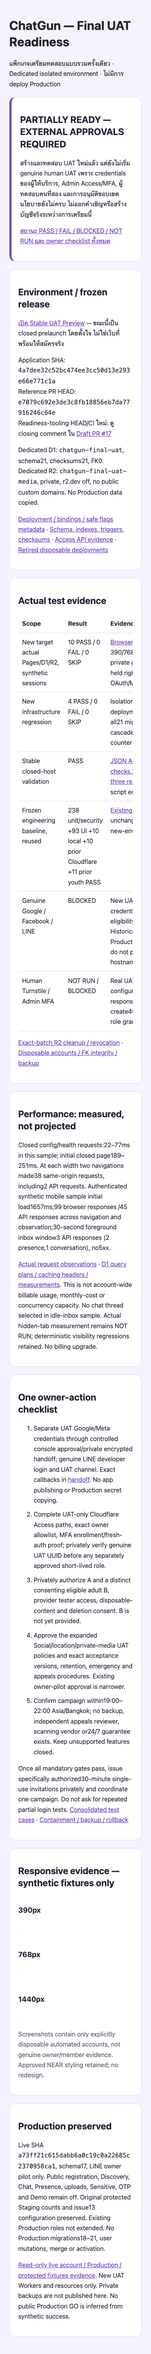
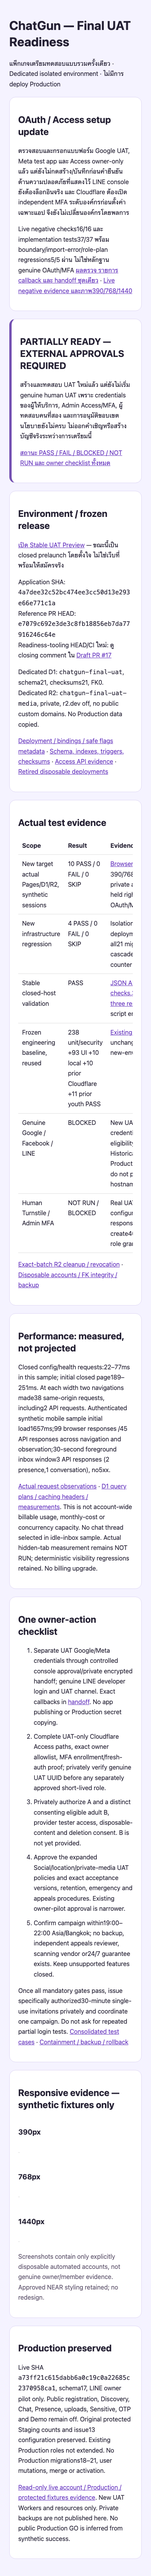
Validate UAT authentication boundaries and prepare controlled OAuth Access setup

Changed region(s): [[0.0615, 0.0, 0.8923, 0.9998]]

diff --git a/docs/final-uat/readiness-report.html b/docs/final-uat/readiness-report.html
@@ -1,5 +1,6 @@
 <!doctype html><html lang="th"><meta charset="utf-8"><meta name="viewport" content="width=device-width,initial-scale=1"><title>ChatGun · Final UAT Readiness</title><style>body{margin:0;background:#f5f3ff;color:#242033;font:16px/1.65 system-ui,sans-serif}main{max-width:1080px;margin:auto;padding:24px}section{background:white;border:1px solid #ddd5f4;border-radius:16px;padding:22px;margin:20px 0}h1,h2{line-height:1.3}a{color:#6534be;overflow-wrap:anywhere}code{overflow-wrap:anywhere}img{max-width:100%;border:1px solid #ddd;border-radius:10px}.status{border-left:6px solid #7450b2}table{border-collapse:collapse;width:100%}td,th{text-align:left;padding:10px;border-bottom:1px solid #ddd;vertical-align:top}.scroll{overflow:auto}.images{display:grid;grid-template-columns:repeat(auto-fit,minmax(220px,1fr));gap:20px}.note{color:#655b72}li{margin:10px 0}</style><main>
 <h1>ChatGun — Final UAT Readiness</h1><p>แพ็กเกจเตรียมทดสอบแบบรวมครั้งเดียว · Dedicated isolated environment · ไม่มีการ deploy Production</p>
+<section><h2>OAuth / Access setup update</h2><p>ตรวจสอบและกรอกแบบฟอร์ม Google UAT, Meta test app และ Access owner-only แล้ว แต่ยังไม่กดสร้าง/บันทึกก่อนคำยืนยันด้านความปลอดภัยที่แสดงไว้ LINE console ยังต้องล็อกอินจริง และ Cloudflare ต้องเปิด independent MFA ระดับองค์กรก่อนตั้งค่าเฉพาะแอป จึงยังไม่เปลี่ยนองค์กรโดยพลการ</p><p>Live negative checks16/16 และ implementation tests37/37 พร้อม boundary/import-error/role-plan regressions5/5 ผ่าน ไม่ใช่หลักฐาน genuine OAuth/MFA <a href="oauth-access-setup/status.md">ผลตรวจ รายการ callback และ handoff ชุดเดียว</a> · <a href="oauth-access-setup/live-negative-security.json">Live negative evidence และภาพ390/768/1440</a></p></section>
 <section class="status"><h2>PARTIALLY READY — EXTERNAL APPROVALS REQUIRED</h2><p>สร้างและทดสอบ UAT ใหม่แล้ว แต่ยังไม่เริ่ม genuine human UAT เพราะ credentials ของผู้ให้บริการ, Admin Access/MFA, ผู้ทดสอบคนที่สอง และการอนุมัติขอบเขตนโยบายยังไม่ครบ ไม่ออกคำเชิญหรือสร้างบัญชีจริงระหว่างการเตรียมนี้</p><p><a href="readiness-matrix.md">สถานะ PASS / FAIL / BLOCKED / NOT RUN และ owner checklist ทั้งหมด</a></p></section>
 <section><h2>Environment / frozen release</h2><p><a href="https://uat.chatgun-final-uat.pages.dev">เปิด Stable UAT Preview</a> — ขณะนี้เป็น closed prelaunch โดยตั้งใจ ไม่ใช่เว็บที่พร้อมให้สมัครจริง</p><p>Application SHA: <code>4a7dee32c52bc474ee3cc50d13e293e66e771c1a</code><br>Reference PR HEAD: <code>e7079c692e3de3c8fb18856eb7da77916246c64e</code><br>Readiness-tooling HEAD/CI ใหม่: ดู closing comment ใน <a href="https://github.com/Nattano-CDS/chatgun/pull/17">Draft PR #17</a></p><p>Dedicated D1: <code>chatgun-final-uat</code>, schema21, checksums21, FK0. Dedicated R2: <code>chatgun-final-uat-media</code>, private, r2.dev off, no public custom domains. No Production data copied.</p><p><a href="environment.json">Deployment / bindings / safe flags metadata</a> · <a href="schema-verification.json">Schema, indexes, triggers, checksums</a> · <a href="access-verification.json">Access API evidence</a> · <a href="deployment-retirement.json">Retired disposable deployments</a></p></section>
 <section><h2>Actual test evidence</h2><div class="scroll"><table><tr><th>Scope</th><th>Result</th><th>Evidence / limits</th></tr><tr><td>New target actual Pages/D1/R2, synthetic sessions</td><td>10 PASS / 0 FAIL / 0 SKIP</td><td><a href="full-system-cloud-browser.json">Browser results</a>; 390/768/1440; Social, private album, moderation, held rights, deletion. Not OAuth/MFA.</td></tr><tr><td>New infrastructure regression</td><td>4 PASS / 0 FAIL / 0 SKIP</td><td>Isolation, serialized deployment flags/sitekey, all21 migration hashes, cascade-safe cleanup counter</td></tr><tr><td>Stable closed-host validation</td><td>PASS</td><td><a href="http-browser-verification.json">JSON APIs,6 config/denial checks,39 asset hashes, three responsive views</a>; no script errors/overflow</td></tr><tr><td>Frozen engineering baseline, reused</td><td>238 unit/security +93 UI +10 local +10 prior Cloudflare +11 prior youth PASS</td><td><a href="../development-completion/test-summary.json">Existing evidence</a>; unchanged runtime, not new-environment claims</td></tr><tr><td>Genuine Google / Facebook / LINE</td><td>BLOCKED</td><td>New UAT credentials/callbacks/tester eligibility outstanding. Historical Production/Preview passes do not prove this hostname.</td></tr><tr><td>Human Turnstile / Admin MFA</td><td>NOT RUN / BLOCKED</td><td>Real UAT widget configured; invalid response rejected. Access create403/code1010, no role grants.</td></tr></table></div><p><a href="cloud-cleanup.json">Exact-batch R2 cleanup / revocation</a> · <a href="disposable-account-cleanup.json">Disposable accounts / FK integrity / backup</a></p></section>

diff --git a/test/uat-auth-boundaries.test.js b/test/uat-auth-boundaries.test.js
@@ -1,0 +1,50 @@
+import test from 'node:test';
+import assert from 'node:assert/strict';
+import {TestD1,environment,cookieValue} from './helpers/d1.js';
+import {issueSession,getSession} from '../functions/_lib/db.js';
+import {enabledOAuthProviders} from '../functions/_lib/oauth-provider-gates.js';
+import {onRequest} from '../functions/api/auth/[[path]].js';
+import {spawnSync} from 'node:child_process';
+import {finalUatRolePlan} from '../scripts/lib/final-uat-role-plan.mjs';
+
+test('UAT-only role plan rejects Production, permanent duration and broad role administration',()=>{
+ const p={database:'e3cb426c-b88a-4b93-90fd-39df524f68ae',userId:'11111111-1111-4111-8111-111111111111',now:10000,expiresAt:20800,roles:['report_reviewer','safety_admin'],ids:['grant1','event1','grant2','event2']};
+ const statements=finalUatRolePlan(p);assert.equal(statements.length,4);assert.ok(statements[0].sql.includes('authenticated_at>=?-600'));assert.ok(statements[0].sql.includes('member_age_safety_holds'));assert.ok(statements[0].sql.includes('beta_enrollments'));
+ assert.throws(()=>finalUatRolePlan({...p,database:'9738a051-d914-42d0-8e7b-8098ef2b959d'}));assert.throws(()=>finalUatRolePlan({...p,expiresAt:null}));assert.throws(()=>finalUatRolePlan({...p,expiresAt:p.now+86400}));assert.throws(()=>finalUatRolePlan({...p,roles:['moderation_admin']}));
+});
+
+test('private credential importer fails closed with sanitized errors before credential/API access',()=>{
+ const r=spawnSync(process.execPath,['scripts/store-final-uat-provider.mjs','google'],{encoding:'utf8',env:{...process.env,CHATGUN_FINAL_UAT:'not-approved',CHATGUN_UAT_NEW_CREDENTIAL_FILE:'/must-not-read-private-credential-input'}});
+ assert.equal(r.status,1);assert.equal(r.stdout,'');assert.ok(r.stderr.includes('stopped safely'));assert.ok(!r.stderr.includes('must-not-read-private-credential-input'));assert.ok(!r.stderr.includes('AssertionError'));
+});
+
+test('provisioned UAT credentials cannot override the closed OAuth/admission flags',async()=>{
+ const db=new TestD1();try{const env={...environment(db),OAUTH_LOGIN_ENABLED:'false',OAUTH_ENABLED_PROVIDERS:'google,facebook,line',NEW_ACCOUNT_REGISTRATION_ENABLED:'false',BETA_INVITATION_REGISTRATION_ENABLED:'false'};
+ assert.deepEqual(enabledOAuthProviders(env),[]);
+ const r=await onRequest({env,request:new Request('https://uat.chatgun-final-uat.pages.dev/api/auth/config')});
+ const c=await r.json();assert.equal(c.oauthLoginEnabled,false);assert.deepEqual(c.oauthProviders,[]);assert.equal(c.newAccountRegistrationEnabled,false);assert.equal(c.invitationOnlyRegistrationEnabled,false);
+ }finally{db.close();}
+});
+
+test('a session in one isolated database cannot authenticate against a second environment',async()=>{
+ const a=new TestD1(),b=new TestD1(),now=Math.floor(Date.now()/1000),id='isolated-session-boundary';
+ try{await a.prepare("INSERT INTO users(id,display_name,status,created_at,updated_at)VALUES(?,'Isolated test','active',?,?)").bind(id,now,now).run();
+ const s=await issueSession(a,id,now),r=new Request('https://uat.chatgun-final-uat.pages.dev/api/auth/me',{headers:{cookie:'__Host-cg_session='+s.token}});
+ assert.ok(await getSession(r,a,now));assert.equal(await getSession(r,b,now),null);
+ for(const cookie of s.cookies){assert.ok(cookie.includes('Secure')&&cookie.includes('Path=/')&&cookie.includes('SameSite=Lax'));assert.ok(!cookie.includes('Domain='));}
+ assert.ok(s.cookies[0].includes('HttpOnly'));assert.equal((await b.prepare('SELECT COUNT(*) n FROM sessions').first()).n,0);
+ }finally{a.close();b.close();}
+});
+
+test('an OAuth flow and copied state cookie cannot cross isolated D1 environments',async()=>{
+ const a=new TestD1(),b=new TestD1(),originalFetch=globalThis.fetch,origin='https://uat.chatgun-final-uat.pages.dev';
+ try{
+  const envA={...environment(a),OAUTH_LOGIN_ENABLED:'true',OAUTH_ENABLED_PROVIDERS:'google',NEW_ACCOUNT_REGISTRATION_ENABLED:'false'},envB={...envA,DB:b};let verificationCalls=0;
+  globalThis.fetch=async url=>{assert.equal(String(url),'https://challenges.cloudflare.com/turnstile/v0/siteverify');verificationCalls++;return Response.json({success:true,hostname:new URL(origin).hostname,action:'auth_start'});};
+  const start=await onRequest({env:envA,request:new Request(origin+'/api/auth/oauth/google/start',{method:'POST',headers:{origin,'content-type':'application/json'},body:JSON.stringify({turnstileToken:'synthetic-negative-boundary-token'})})});assert.equal(start.status,200);
+  const state=cookieValue(start,'__Host-cg_oauth');assert.ok(state);
+  const callback=await onRequest({env:envB,request:new Request(origin+'/api/auth/oauth/google/callback?code=synthetic-unused-code&state='+encodeURIComponent(state),{headers:{cookie:'__Host-cg_oauth='+state}})});
+  assert.equal(callback.status,303);assert.equal(callback.headers.get('location'),'/signup.html?auth_error=oauth_expired');assert.equal(verificationCalls,1,'No provider exchange is allowed after a foreign flow');
+  assert.equal((await b.prepare('SELECT COUNT(*) n FROM users').first()).n,0);assert.equal((await b.prepare('SELECT COUNT(*) n FROM sessions').first()).n,0);assert.equal((await a.prepare('SELECT COUNT(*) n FROM oauth_flows').first()).n,1);
+ }finally{globalThis.fetch=originalFetch;a.close();b.close();}
+});

diff --git a/docs/final-uat/oauth-access-setup/status.md b/docs/final-uat/oauth-access-setup/status.md
@@ -1,0 +1,57 @@
+# UAT OAuth / Access configuration execution
+
+Application remains frozen at `4a7dee32c52bc474ee3cc50d13e293e66e771c1a`. Starting PR HEAD was `2b16100802b1fe8924ab493d64e6ffd7078033c8`; exact closing HEAD and CI are recorded in the PR closing comment. No Production deployment, migration, account change or role grant.
+
+## Actual status — not a completion claim
+
+| Item | Status | Verified action / blocker |
+|---|---|---|
+| ChatGun account, dedicated DB/R2/Workers | PASS | Account rechecked; schema21, users/identities/sessions/invitations/grants/media0, FK0; private cleanup Workers and bindings rechecked |
+| Stable UAT / closed flags | PASS | Live release4a7dee3; OAuth/providers/admission/Social/media remain OFF; site key unchanged |
+| Google | BLOCKED | Authenticated project `chatgun`; External/Testing previously verified. Separate **ChatGun UAT** Web Application form populated with exact origin and Google callback; Create enabled, **not submitted** pending action-time security confirmation. Old clients untouched; no new secret obtained |
+| Meta | BLOCKED | Authenticated ChatGun parent1136950635489003 (not Production1732162668911193). **Create test app for ChatGun** dialog populated **ChatGun UAT**; Create enabled, **not submitted** pending the same confirmation. No app published, role added or secret revealed |
+| LINE | BLOCKED | Existing console requires genuine LINE Business ID login. Handoff redirects to console root, NOT Production channel2012039306; no channel modified/created |
+| Access API403/code1010 | BLOCKED | Wrangler is OAuth-authenticated into exact ChatGun account; its displayed scopes have no Access Write/Edit. Dashboard is authenticated and exposes UAT creation UI. Missing write scope is demonstrated; dashboard save/hostname acceptance not claimed until submitted. No evidence this requires a paid upgrade |
+| Access dashboard | BLOCKED | New dedicated UAT form, exact moderation + Admin API paths, custom10m application session; unsaved owner-email Include + Authentication Method MFA Require policy. No policy/app saved pending action-time security confirmation |
+| Independent MFA | BLOCKED | Dashboard explicitly says organization MFA not turned on; app-level custom MFA unavailable. Official docs require organization-level enablement first. This is an additional organization-scope decision, not covered by silently changing UAT-only settings |
+| Admin mapping/roles | NOT RUN | No genuine UAT account exists. Owner UAT UUID must be privately verified and grant scope independently approved; no Production UUID/role copy or extension. Prepared parameterized UAT-only role PLAN, at most8hours, report_reviewer+safety_admin only, current eligible/onboarded member and10minute recent-auth guard; no executor run |
+| Turnstile | PASS configuration / NOT RUN human | Same dedicated real widget/site key/encrypted secret. Host/action checks unchanged; human challenge deferred to final campaign. No test-bypass keys |
+| Live negative security | PASS |16 checks; disabled starts, foreign origins, callbacks, invalid provider/session, disabled Admin/OTP; no users/flows/invitations fabricated |
+| Implementation regressions | PASS |37 existing relevant auth/Access/invitation/LINE/middleware cases;5 new boundary/import-error/role-plan tests. Local mocked-provider tests are not genuine OAuth/MFA |
+| Responsive closed UAT | PASS |390/768/1440 actual-host screenshots; zero JS errors/overflow |
+| Genuine OAuth/MFA | NOT RUN | Final human campaign explicitly not started |
+
+The browser task requires confirmation immediately before creating new credentials/security-sensitive policies, even with earlier broad authorization. One consolidated confirmation request was presented for Google/Meta/LINE UAT provisioning and owner-only Access, plus the additional organization-level MFA decision. No repeated provider-login prompts were issued. Do not mistake prepared forms or stored credentials for provider/MFA success.
+
+## Access diagnosis and route inventory
+
+This is not an account mix-up: Wrangler and dashboard show account23017b53386fb67fc62a52cdd017454c. Token scope listing lacks Access Write. Therefore use the authenticated dashboard rather than changing the plan or weakening Access. Dashboard also displayed an outage banner; official status at review showed the relevant recent incident resolved and live UAT APIs returned JSON200. Do not attribute the persistent scope error to an assumed outage.
+
+Exact UAT edge destinations prepared:
+
+- `uat.chatgun-final-uat.pages.dev/app/moderation*` (including moderation.html)
+- `uat.chatgun-final-uat.pages.dev/api/admin/*`
+
+The standalone UI remaps privileged calls to `/api/admin/*`. The legacy `/api/social/moderation/` routes were also examined: access, overview, capabilities, reports, media-reports, appeals, audit, members, eligibility, accounts, roles, messages/media evidence, media review/bytes, verification/verification evidence. They remain subject to server-side Access verification plus RBAC, purpose and recent-auth checks; unconfigured Access fails closed. Ordinary `/api/social/moderation/notifications` is a member-owned route and must not be swept behind an Admin edge policy. Public OAuth/auth endpoints must remain outside this Access app.
+
+Routine overview keeps fixed audit purpose `routine_admin_dashboard_access`; no global Purpose prompt. Restricted evidence/queues retain explicit purpose, recorded decision reasons, CSRF, role expiry and ten-minute recent-auth. Signed Access issuer/audience/owner binding are required, never plain email-header trust. JWT `iat` is not treated as fresh authentication. No setting will map the owner until a genuine UAT UUID is verified.
+
+## Exact callback / scope package
+
+| Provider | New UAT callback | Minimal scope |
+|---|---|---|
+| Google | `https://uat.chatgun-final-uat.pages.dev/api/auth/oauth/google/callback` | `openid email profile`, state/nonce/S256 PKCE |
+| Facebook | `https://uat.chatgun-final-uat.pages.dev/api/auth/oauth/facebook/callback` | `public_profile`, email OFF; server-side token/app validation + app-secret proof |
+| LINE | `https://uat.chatgun-final-uat.pages.dev/api/auth/oauth/line/callback` | `openid profile`, email OFF, nonce/S256 PKCE |
+
+Google JS origin: `https://uat.chatgun-final-uat.pages.dev`. Do not add a new test user or publish a provider. Preserve all current clients/channels/callbacks. New credential storage tool rejects known old client IDs, wrong UAT callback, public/published status, unprotected handoff files and overwriting existing credential keys. It patches only this project's **Preview** encrypted credentials; it never opens admission or grants roles. Positive live credential import is **NOT RUN**, since no new credentials have been created. Do not use a project-wide Wrangler secret command that may affect both environments.
+
+## Single minimal owner handoff
+
+1. Answer the already-presented consolidated action-time confirmation for creating the specifically named UAT credentials/owner-only Access app. Credentials go only to encrypted `chatgun-final-uat` Preview secrets; no secret should be pasted into chat/GitHub.
+2. Decide whether to authorize organization-level independent MFA activation (potential inherited defaults for other Access apps), or retain strict UAT-only scope and use an independently MFA-capable approved IdP later. Current organization settings remain unchanged. Enabling global MFA to support app MFA is a distinct scope decision, not a workaround for missing API token permissions.
+3. Complete genuine LINE developer login in the retained Chrome tab. No CAPTCHA/password/MFA/Terms action will be automated. Continue with a separate UAT channel under verified ChatGun ownership, never channel2012039306.
+
+Later final-campaign gates remain unchanged: owner UAT identity/least-privilege grant confirmation, distinct consenting eligible adult B, expanded Social/location/media policy/operating approval,19:00–22:00Bangkok coverage window. No invitations are issued in this configuration phase.
+
+Sources: [Cloudflare independent MFA prerequisites](https://developers.cloudflare.com/cloudflare-one/access-controls/policies/mfa-requirements/#prerequisites), [Google server OAuth](https://developers.google.com/identity/protocols/oauth2/web-server), [LINE integration](https://developers.line.biz/en/docs/line-login/integrate-line-login/), [Cloudflare status](https://www.cloudflarestatus.com/).

diff --git a/docs/final-uat/readiness-matrix.md b/docs/final-uat/readiness-matrix.md
@@ -2,6 +2,8 @@
 
 Decision: **PARTIALLY READY — EXTERNAL APPROVALS REQUIRED**. Genuine human UAT has NOT started. No invitation, genuine account, owner role grant or Production activation was performed in this preparation.
 
+Latest OAuth/Access execution: [configuration status and consolidated handoff](oauth-access-setup/status.md). Google/Meta exact UAT forms are populated but not submitted pending action-time security confirmation; LINE console requires login. Wrangler lacks Access Write; independent MFA additionally requires an organization-level scope decision. New live negative checks16/16 and relevant implementation checks37/37 plus5 new boundary/import-error/role-plan regressions pass; these are not provider/MFA success.
+
 Frozen application: `4a7dee32c52bc474ee3cc50d13e293e66e771c1a`. Initial PR #17 evidence HEAD: `e7079c692e3de3c8fb18856eb7da77916246c64e`. Closing PR comment records the eventual readiness-tooling HEAD and CI result; it is not a new application release.
 
 | Prerequisite | Status | Evidence / exact limitation |
